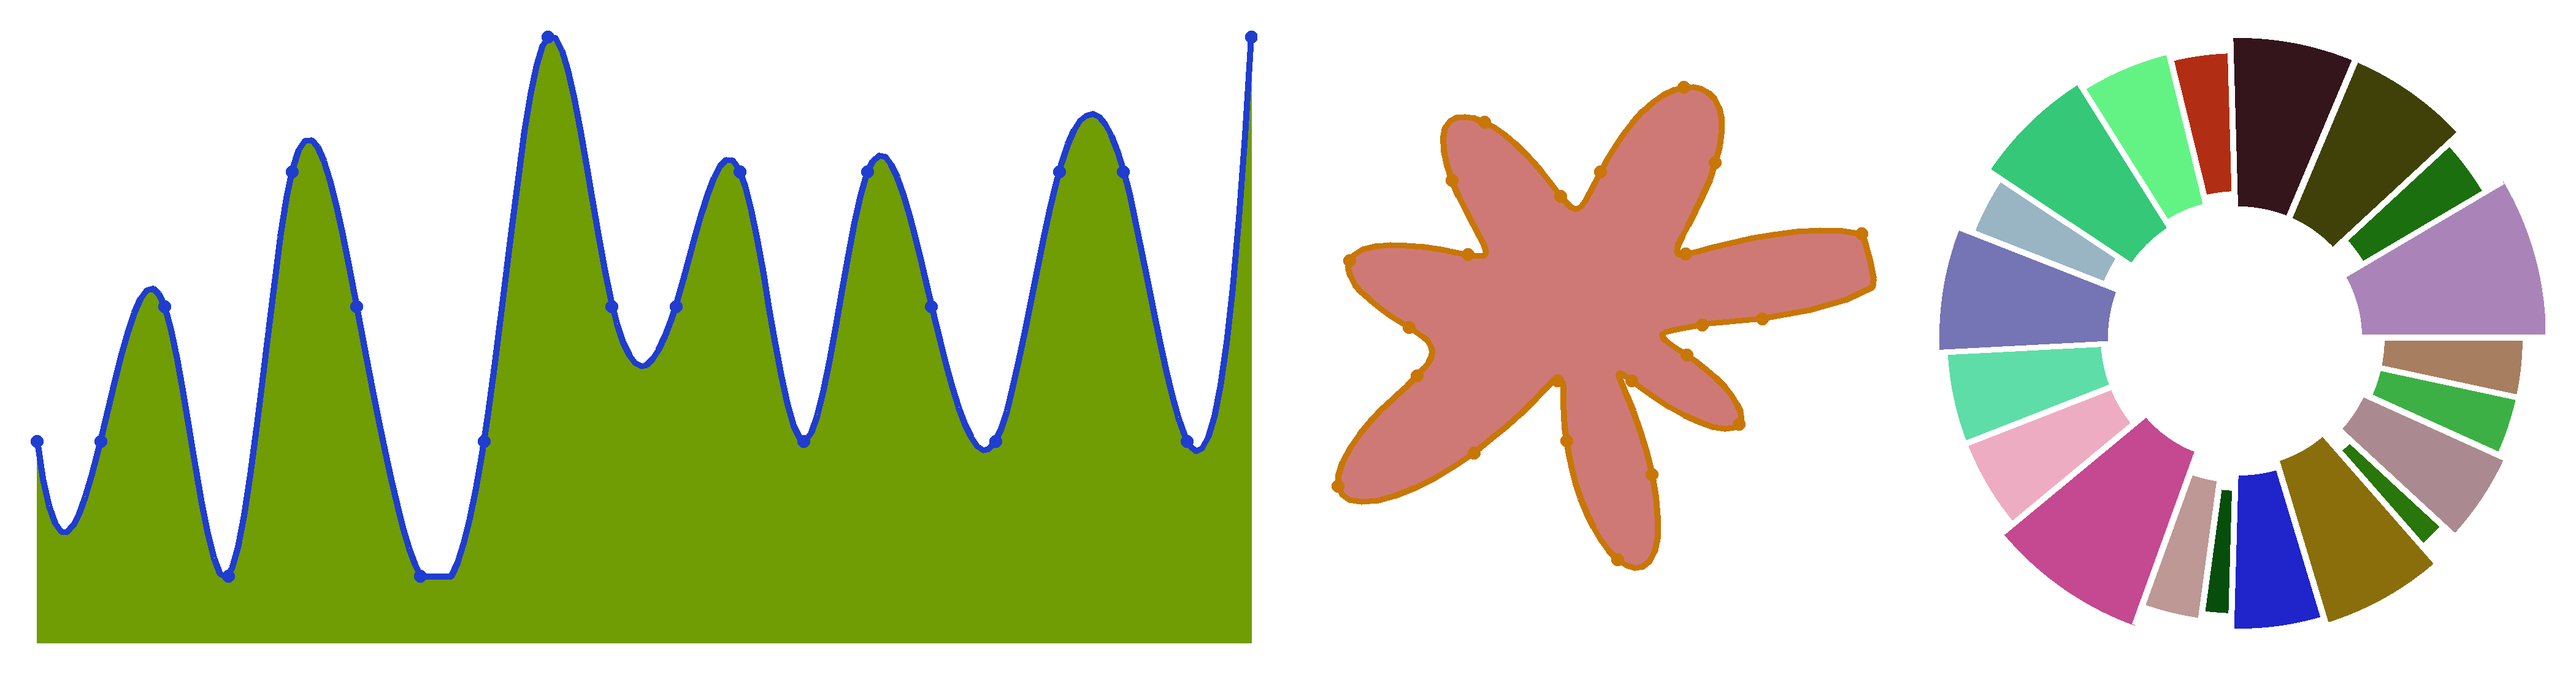
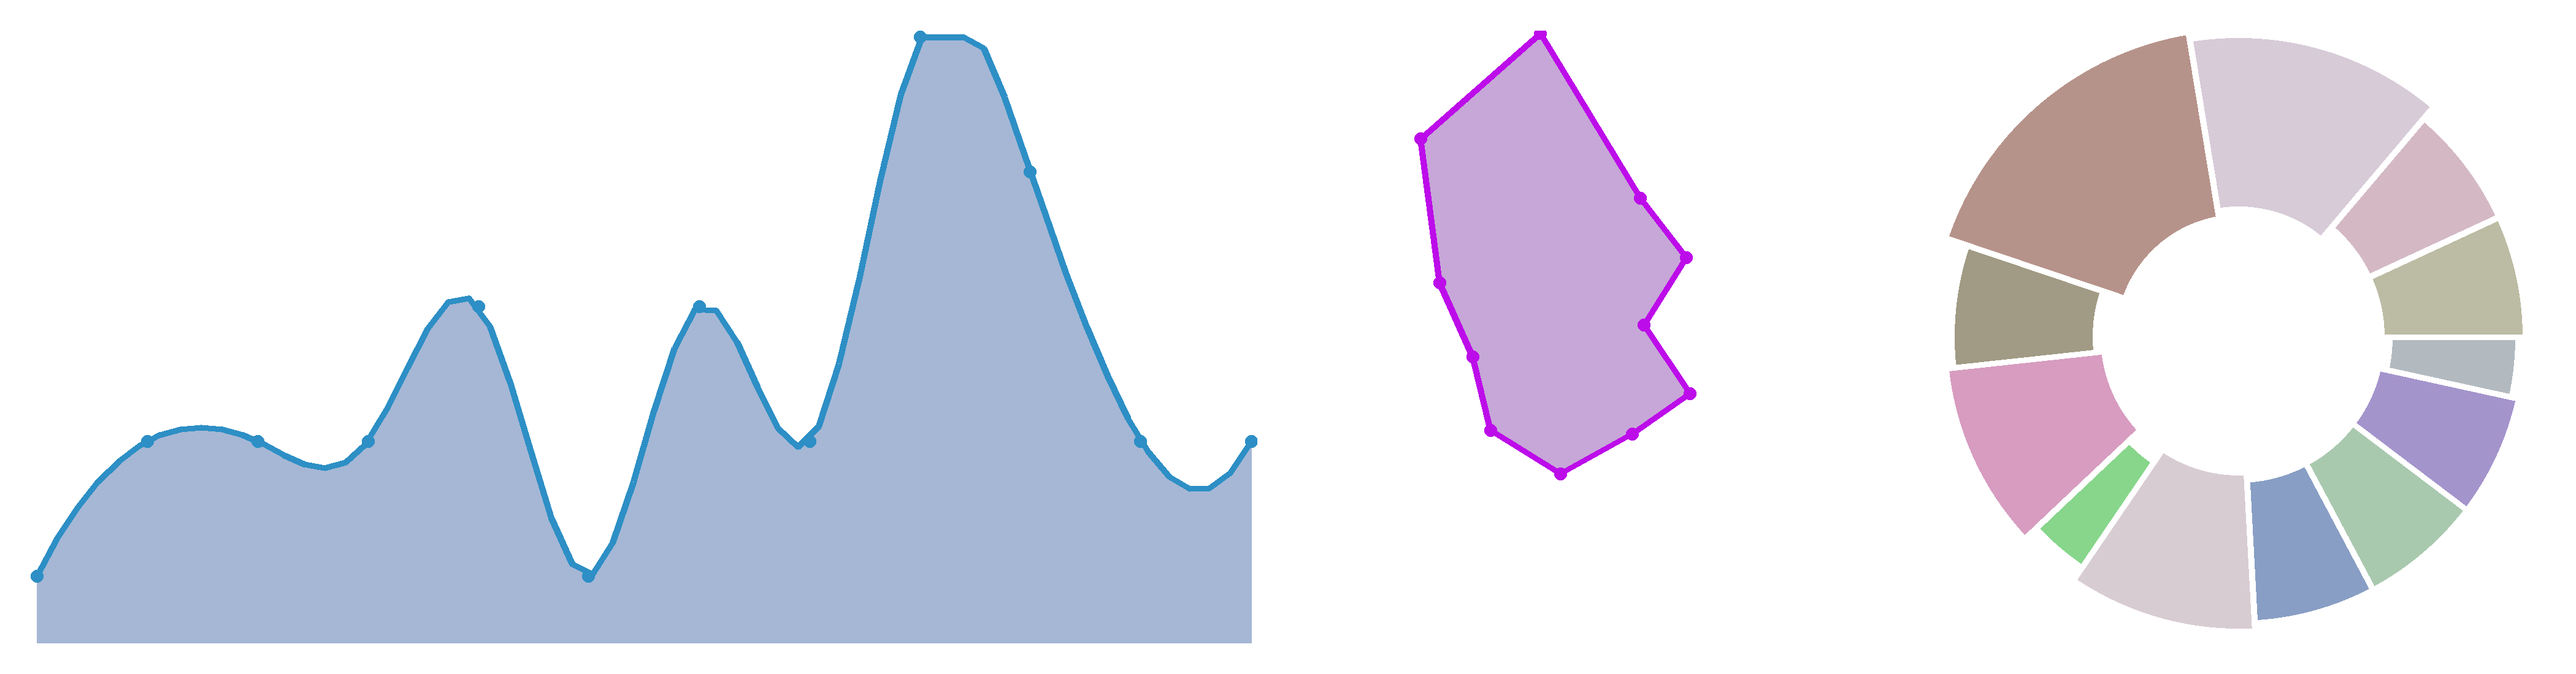
update examples

diff --git a/examples/allgraphs.py b/examples/allgraphs.py
@@ -1,23 +1,32 @@
 import random
-import time
 from PIL import Image
-
-from piligraphs import LineChart, RadarChart, PieChart, GraphItem
+from piligraphs import BaseGraph, LineChart, RadarChart, PieChart, GraphItem
 
 
 # define variables
 margin = 50
-items = [GraphItem(weight=random.randint(1, 5)) for _ in range(20)]
-graphs = []
+items = [GraphItem(
+    color=(
+        random.randint(128, 216), 
+        random.randint(128, 216), 
+        random.randint(128, 216), 
+        256
+    ), 
+    weight=random.randint(1, 5)) for _ in range(12)
+]
+graphs: list[BaseGraph] = []
 
 
 # create graphs
 linechart = LineChart(
     size=(2000, 1000),
     thickness=10,
+    fill=(23, 100, 231, 156),
+    outline=(45, 143, 197, 256),
     pwidth=20,
-    npoints=len(items) * 10,
-    interpol='cubic',
+    onlysrc=True,
+    npoints=len(items) * 5,
+    interp='cubic',
     minh=100
 )
 linechart.add_items(*items)
@@ -27,10 +36,13 @@ graphs.append(linechart)
 radarchart = RadarChart(
     radius=500,
     thickness=10,
-    point_width=20,
-    num_points=len(items) * 10,
-    interpol='cubic',
-    min_radius=100
+    fill=(167, 33, 242, 156),
+    outline=(189, 12, 234, 256),
+    pwidth=20,
+    onlysrc=True,
+    npoints=len(items),
+    interp='cubic',
+    minr=100
 )
 radarchart.add_items(*items)
 graphs.append(radarchart)
@@ -38,33 +50,25 @@ graphs.append(radarchart)
 
 piechart = PieChart(
     radius=500, 
-    width=300,
+    thickness=300,
     emboss=50,
-    space_between=10)
+    gap=10
+)
 piechart.add_items(*items)
 graphs.append(piechart)
 
 
-def timer(func, name: str):
-    start = time.time()
-    res = func()
-    end = time.time()
-    print(f"Executed '{name}' in {end - start} seconds")
-    return res
-
-
-# display graphs
-graph_images: list[Image.Image] = [
-    timer(lambda: graph.draw(), f"{type(graph).__name__}.draw()") for graph in graphs]
+# draw graphs
+images  = [g.draw() for g in graphs]
 size = (
-    sum((g.width for g in graph_images)) + margin * (len(graph_images) + 1), 
-    max((g.height for g in graph_images)) + margin * 2
+    sum((g.width for g in images)) + margin * (len(images) + 1), 
+    max((g.height for g in images)) + margin * 2
 )
 image = Image.new('RGBA', size, (0, 0, 0, 0))
 
 x = margin
-for graph in graph_images:
-    image.paste(graph, (x, margin), graph)
-    x += graph.width + margin
+for img in images:
+    image.paste(img, (x, margin), img)
+    x += img.width + margin
 
 image.show("All graphs with the same data")

diff --git a/README.md b/README.md
@@ -4,8 +4,48 @@
 [![CodeFactor](https://www.codefactor.io/repository/github/eeemoon/piligraphs/badge)](https://www.codefactor.io/repository/github/eeemoon/piligraphs)
 [![BuyMeACoffee](https://img.shields.io/badge/support-yellow)](https://www.buymeacoffee.com/eeemoon)
 
-[Pillow](https://github.com/python-pillow/Pillow) extension for drawing graphs and charts.
+A [Pillow](https://github.com/python-pillow/Pillow) extension for drawing graphs and charts.
 
 ![](examples/images/allgraphs.png)
 
-### You can find more examples [here](examples/)
+## Installation
+To install this module, run the following command:
+```
+pip install piligraphs
+```
+
+## Example usage
+Creating a line chart:
+```python
+import random
+from piligraphs import LineChart, GraphItem
+
+
+# define items
+items = [
+    GraphItem(weight=random.randint(1, 7)) for _ in range(10)
+]
+
+# create a LineChart
+linechart = LineChart(
+    size=(2000, 1000),
+    thickness=10,
+    fill=(243, 14, 95, 156),
+    outline=(194, 43, 132, 256),
+    pwidth=20,
+    onlysrc=True,
+    npoints=len(items) * 10,
+    interp='cubic'
+)
+
+# add items
+linechart.add_items(*items)
+
+# draw graph
+image = linechart.draw()
+image.show()
+```
+Result:
+![](examples/images/linegraph.png)
+
+You can find more examples [here.](examples/)
